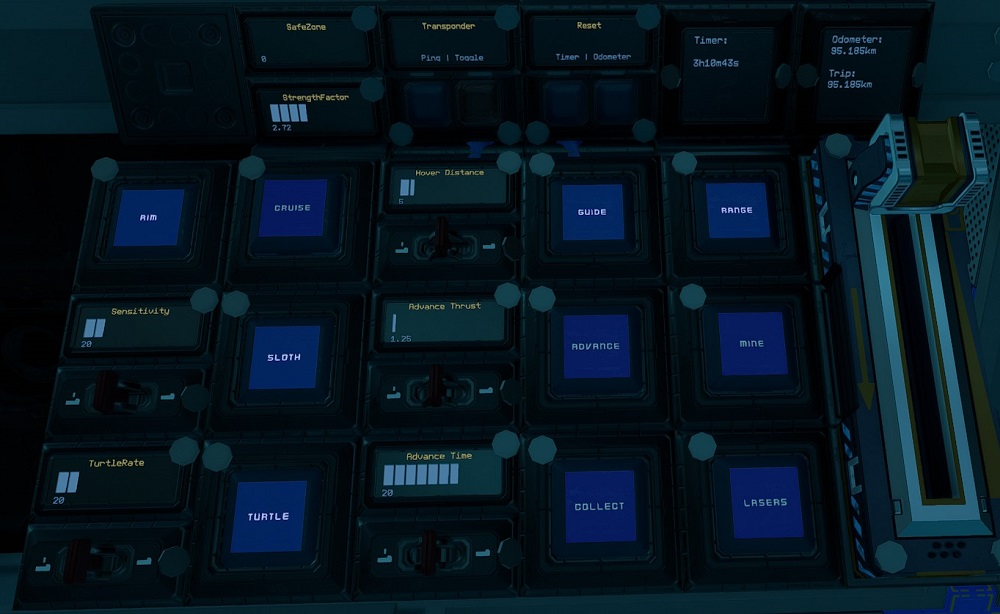
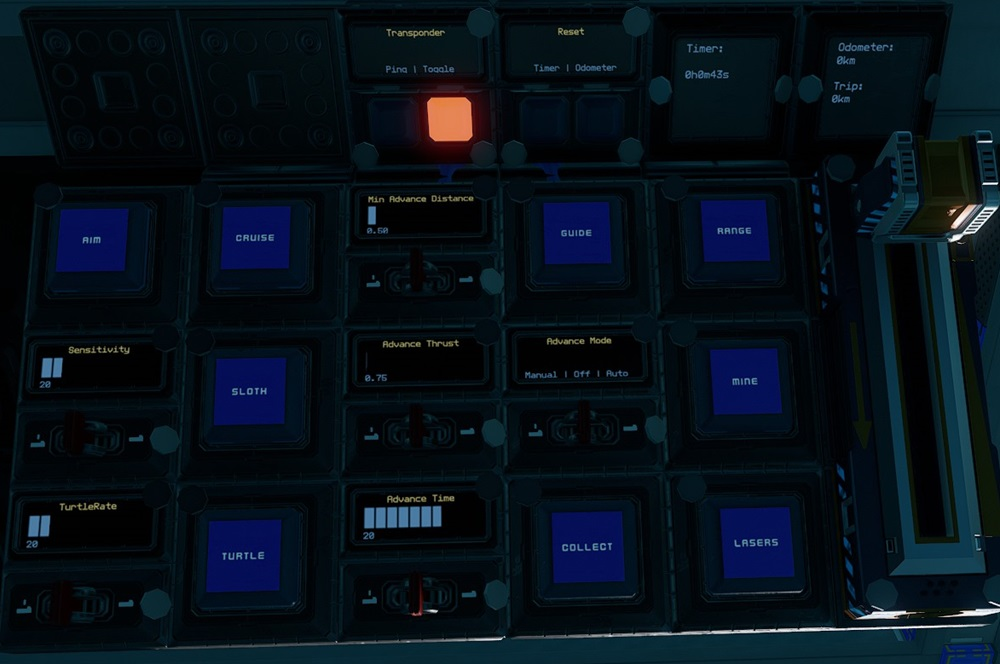
crawler, crawler x: version 1.0.2

diff --git a/crawler/USAGE.md b/crawler/USAGE.md
@@ -16,12 +16,12 @@ To enter the ship, there is a button on bottom of the ship that will open `Hatch
 | `Cruise` | Activates cruise control, forward thrust will not reset to zero unless turned down. |
 | `Turtle` | Activates turtle mode which sets forward thrust to a maximum limit of `TurtleRate` of full thrust. |
 | `Sloth` | Activates the low sensitvity mode of pitch and yaw by limiting thrust. Use the `Sensitivity` switch to set the maximum thrust rate of sloth mode.|
+| `Profiles` | Adjusts preset flight profiles. See [Flight Profiles](https://starbase.egotech.space/pages/systems/flight/#flight-profiles). |
 | `Aim` | Reduces the response time of key presses for pitch and yaw. |
 | `Guide`, `Hover Distance`, `FrontRight`, `FrontLeft`, `BackRight` & `BackLeft` | `Guide` activates rangefinders at each corner of the base of the ship. Each repsective corner shows distance to the ground. `Red` warning lights flash when ground is less that `Hover Distance`. |
 | `Range` & `Distance` | Activates forward rangefinders, with `Distance` showing distance to object detected by center rangefinder. |
-| `Mine`, `Advance`, `Advance Thrust` & `Advance Time` | Mining controls. See [Mining](#mining). |
-| `SafeZone` | Whether current location is in the safe zone. |
-| `StrengthFactor` | Current strength of ship. May fluctuate as ore crates are filled. Anything below 1.0 means ship is damaged. |
+| `Mine`, `Advance Mode`, `Advance Thrust`,  `Advance Time` & `Min Advance Distance` | Mining controls. See [Mining](#mining). |
+| `Warnings`, `SafeZone` & `StrengthFactor` | Warnings for being outside safe zone, ship damage as well as low fuel or propellant. See [Warnings Panel](https://starbase.egotech.space/pages/systems/utility/#warnings). |
 | Transponder `Toggle` & `Ping` | [Transponder](https://starbase.egotech.space/pages/systems/utility/#transponder) controls, `Toggle` turns on and off ship transponder while `Ping` will activate transponder for three seconds |
 | `Timer` | See [Timer](https://starbase.egotech.space/pages/systems/utility/#timer). |
 | `Odometer` | See [Odometer](https://starbase.egotech.space/pages/systems/utility/#odometer). |
@@ -43,7 +43,7 @@ See [Flight Systems](https://starbase.egotech.space/pages/systems/flight/) on ho
 | `FuelTime` | Time and distance remaining of fuel based on current usage. Distance is calculated from speed. |
 | `Fuel` | Fuel remaining on fuel tank, maximum of 10,000,000 units. |
 | `Generator` | Current generator rate. |
-| `Min Gen` & `Min Generator Limit` | Toggle and sets minimum generator rate. See [Managing Power and Fuel](#managing-power-and-fuel). |
+| `Min Gen` & `Min Generator Rate` | Toggle and sets minimum generator rate. See [Managing Power and Fuel](#managing-power-and-fuel). |
 | `Shutdown` | Will turn off all fuel chambers thus shutting down generators. |
 | `Battery` | Shows current battery charge of the batteries, maximum of 10,000 units. |
 | `HeatTransferRate` | Current heat transfer rate of the heat sinks, maximum of 100%. |
@@ -66,21 +66,21 @@ See [Propellant Systems](https://starbase.egotech.space/pages/systems/propellant
 
 ![Mining Console](https://github.com/EGO-Tech/starbase-ships/raw/main/crawler/images/mining_console.jpg)
 
-Activate `Lasers` to turn on the mining lasers which will automatically sweep from side to side. Activating `Advance` will slowly move the ship forward based on `Advance Time` and `Advance Thrust`. Adjust `Advance Time` (period to wait before each advance in seconds) and `Advance Thrust` (amount of forward thrust when advancing) if needed.
+Activate `Lasers` to turn on the mining lasers which will automatically sweep from side to side. Switching `Advance Mode` to `Manual` or `Auto` will slowly move the ship forward to dredge the surface.
 
-<nord-banner variant="info">
+Advance has the following options which can be adjusted:
 
-**TIP:** Increase `Advance Thrust` if needed as the ship gains more mass from filling up.
-
-</nord-banner>
+- `Advance Time` will adjust the period to wait before each advance in seconds
+- `Advance Thrust` will adjust the amount of forward thrust when advancing
+- `Min Advance Distance` will adjust the minimum distance in metres when advancing. If not met and `Advance Mode` is in `Auto` mode, the `Advance Thrust` will be increased.
 
 `Collect` turns on the four ore collectors.
 
-`Mine` will activate automated mining, which will activate `Lasers`, `Advance` and `Collect`.
+`Mine` will activate automated mining, which will activate `Lasers` and `Collect` plus set `Advance Mode` to `Auto`.
 
 <nord-banner variant="info">
 
-**TIP:** Turn on `Min Gen` and allow the generators to ramp up before starting to mine. Continous use of the lasers and collectors at the same time requires a `Min Generator Limit` of around 85%.
+**TIP:** Turn on `Min Gen` and allow the generators to ramp up before starting to mine. Continous use of the lasers and collectors at the same time requires a `Min Generator Rate` of around 85%.
 
 </nord-banner>
 

diff --git a/crawler/FEATURES.md b/crawler/FEATURES.md
@@ -2,7 +2,7 @@
 
 - 704 ore crates
 - Standard Cruise function
-- Turtle and Sloth functions with adjustable rates
+- Turtle and Sloth functions with adjustable rates and preset profiles
 - Transponder system with ping function
 - Separate mining seat for mining operations with view of lasers and ground
 - Row of 10 mining lasers that sweep from side to side
@@ -20,6 +20,7 @@
 - 52 T3 triangle thrusters providing braking thrust
 - 120 T3 triangle thrusters for maneuvers, with extra thrust upwards
 - Basic crafting bench to craft refills plus the tools and advanced bench
+- Warning lights and alarm for obstacle detection and avoidance
 - Speedometer
 - Timer panel
 - Odometer panel

diff --git a/crawler/premium/CHANGELOG.md b/crawler/premium/CHANGELOG.md
@@ -1,6 +1,17 @@
 # Changelog
 
-## v1.0.1 (Current) - 28/12/2022
+## v1.0.2 (Current) - 07/08/2024
+
+- Painted one unpainted turnable
+- Removed unused hover distance switch
+- Added `Auto` mode for `Advance` which will automatically increase `Advance Thrust` when `Min Advance Distance` is not met
+- Added warnings panel
+- Added flight profiles system
+- Renamed `Min Generator Limit` panels to `Min Generator Rate` for consistency with other ships
+- Renamed `Reset` panels to `Hold to Reset` for consistency with other ships
+- Updated ship manual link in help chip
+
+## v1.0.1 - 28/12/2022
 
 - Added cruise safety chip
 - Added lasers safety chip

diff --git a/crawler/CHANGELOG.md b/crawler/CHANGELOG.md
@@ -1,6 +1,16 @@
 # Changelog
 
-## v1.0.1 (Current) - 28/12/2022
+## v1.0.2 (Current) - 07/08/2024
+
+- Removed unused hover distance switch
+- Added `Auto` mode for `Advance` which will automatically increase `Advance Thrust` when `Min Advance Distance` is not met
+- Added warnings panel
+- Added flight profiles system
+- Renamed `Min Generator Limit` panels to `Min Generator Rate` for consistency with other ships
+- Renamed `Reset` panels to `Hold to Reset` for consistency with other ships
+- Updated ship manual link in help chip
+
+## v1.0.1 - 28/12/2022
 
 - Added cruise safety chip
 - Added lasers safety chip

diff --git a/trebler/FEATURES.md b/trebler/FEATURES.md
@@ -2,7 +2,7 @@
 
 - 534 ore crates
 - Standard Cruise function
-- Turtle and Sloth functions with adjustable rates
+- Turtle and Sloth functions with adjustable rates and preset profiles
 - Transponder system with ping function
 - Three automated rotating drills with three mining lasers each
 - Nine ore collectors
@@ -20,6 +20,7 @@
 - 48 T2 triangle thrusters providing braking thrust
 - 64 T2 triangle thrusters for maneuvers
 - Basic crafting bench to craft refills with meter upgrade plus tools bench
+- Warning lights and alarm for obstacle detection and avoidance
 - Speedometer
 - Timer panel
 - Odometer panel

diff --git a/roamer/FEATURES.md b/roamer/FEATURES.md
@@ -4,7 +4,7 @@
 - Basic crafting bench with meter and monitor upgrade as well as tools bench
 - 12 ore crates to store ore for refills
 - Standard Cruise function
-- Turtle and Sloth functions with adjustable rates
+- Turtle and Sloth functions with adjustable rates and preset profiles
 - Transponder system with ping function
 - Auto generator rate script with adjustable minimum rate
 - 18 T2 generators with six T2 fuel chambers and 12 spare rods on racks

diff --git a/feeder/FEATURES.md b/feeder/FEATURES.md
@@ -3,7 +3,7 @@
 - Basic crafting bench with meter and monitor upgrade as well as tools bench
 - 20 ore crates to store ore for refills
 - Standard Cruise function
-- Turtle and Sloth functions with adjustable rates
+- Turtle and Sloth functions with adjustable rates and preset profiles
 - Transponder system with ping function
 - Two external and two internal resource bridges
 - Auto generator rate script with adjustable minimum rate
